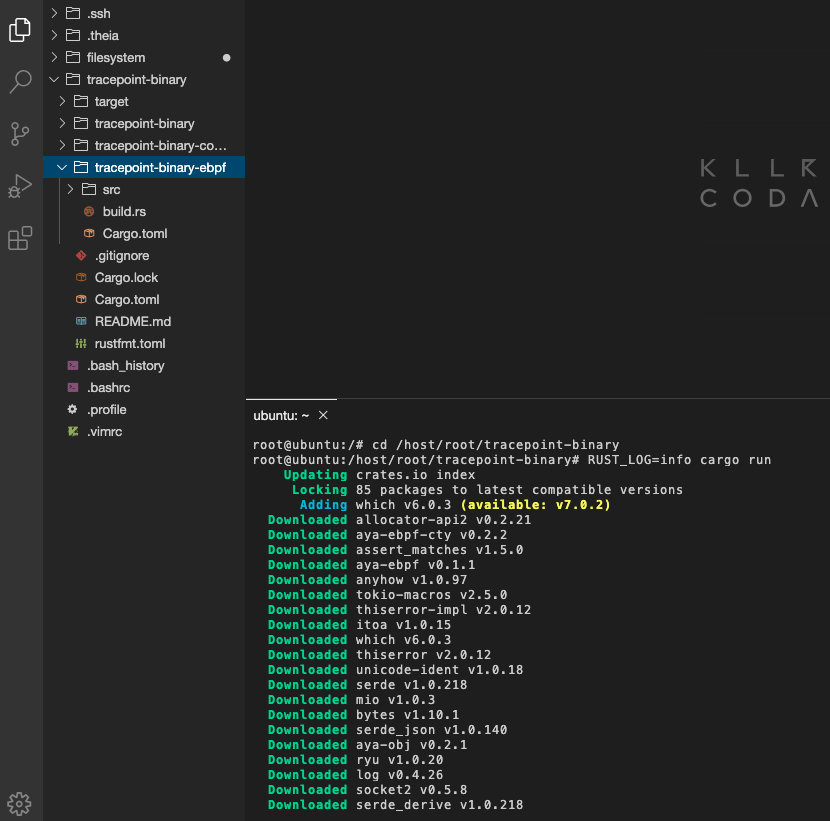
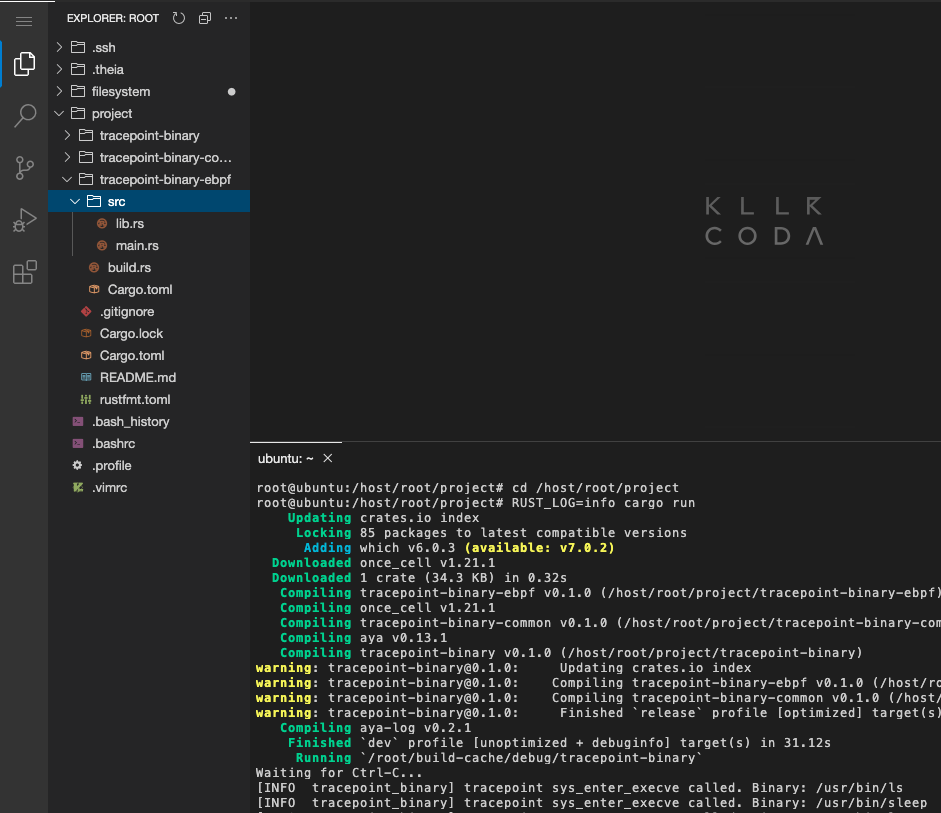
Update aya-prod

diff --git a/aya-prod/aya-first-maps/intro/step1/text.md b/aya-prod/aya-first-maps/intro/step1/text.md
@@ -4,7 +4,7 @@ Before using eBPF maps with Aya, you need to install dependancies. I created an 
 
 ![map architecture](../../img/map-architecture.png)
 
-In this lab, you only can use **Editor** tab. The project directory is `tracepoint-binary`.
+In this lab, you only can use **Editor** tab. The project directory is `project`.
 
 Launch this command in the Terminal at the bottom:
 
@@ -12,11 +12,10 @@ Launch this command in the Terminal at the bottom:
 docker run --rm -it --name aya \
                     --privileged \
                     --network host \
-                    -e USER=littlejo \
-                    -e RUST_LOG=info \
+                    -w /host/root/project \
                     -v /:/host \
                     -v /sys/kernel/debug:/sys/kernel/debug \
-                    littlejo/aya:slim bash
+                    littlejo/aya:1.0.0 bash
 ```{{exec}}
 
 * It can take a long time. During this time, you can install Rust extensions (in the OPEN VSX Registry) for the Editor:

diff --git a/aya-prod/aya-first-maps/second-map/step4/text.md b/aya-prod/aya-first-maps/second-map/step4/text.md
@@ -16,18 +16,24 @@ before this line: `from_utf8_unchecked(filename_bytes)`
 
 * Now it should be compiled:
 ```bash
-cd /host/root/tracepoint-binary
+cd /host/root/project
 RUST_LOG=info cargo run
 ```{{exec interrupt}}
 
-* It can work but not totally:
+* It can work:
 ```
 [INFO  tracepoint_binary] No log for this Binary
 [INFO  tracepoint_binary] No log for this Binary
-[INFO  tracepoint_binary] tracepoint sys_enter_execve called. Binary: /usr/bin/git
 [INFO  tracepoint_binary] No log for this Binary
-[INFO  tracepoint_binary] tracepoint sys_enter_execve called. Binary: /usr/bin/git
 [INFO  tracepoint_binary] No log for this Binary
-[INFO  tracepoint_binary] tracepoint sys_enter_execve called. Binary: /usr/bin/git
+```
+
+* Try to open another terminal
+
+
+Now you should see:
+```
+[INFO  tracepoint_binary] tracepoint sys_enter_execve called. Binary: /usr/bin/sleep
+[INFO  tracepoint_binary] tracepoint sys_enter_execve called. Binary: /usr/bin/ls
 ```
 * Did you find the bug?

diff --git a/aya-prod/aya-first-maps/first-map/step1/text.md b/aya-prod/aya-first-maps/first-map/step1/text.md
@@ -3,7 +3,7 @@ Now you have to improve the code to fix the issue of truncated filenames. Indeed
 For that, you need to modify **kernel space** of eBPF program.
 
 To edit the code, you need a text editor. You can use the **Editor** tab:
-* Select the `tracepoint-binary` directory
+* Select the `project` directory
 * Navigate to `tracepoint-binary-ebpf/src/main.rs`
 
 ![Screenshot of explorer](../../img/screenshot-explorer.png)
@@ -19,7 +19,7 @@ Test with the value of **512**.
 In the container, stop the Aya program (with CTRL-C) and run these commands:
 
 ```plain
-cd /host/root/tracepoint-binary
+cd /host/root/project
 RUST_LOG=info cargo run
 ```{{exec interrupt}}
 

diff --git a/aya-prod/aya-first-maps/fix-bug/step2/text.md b/aya-prod/aya-first-maps/fix-bug/step2/text.md
@@ -3,14 +3,16 @@ You have to modified kernel space program: `aya-test-ebpf/src/main.rs`.
 You need to reset the buf map. after `let filename = unsafe {` line, add this line:
 
 ```rust
-*buf = [0u8; 512];
+*buf = [0u8; LEN_MAX_PATH];
 ```{{copy}}
 
 * It should work now:
 ```bash
-cd /host/root/tracepoint-binary
+cd /host/root/project
 RUST_LOG=info cargo run
 ```{{exec interrupt}}
+
+* Open another terminal to test it
 
 Now you can replace info log into debug:
 ```rust
@@ -25,6 +27,6 @@ use aya_log_ebpf::debug;
 
 * If you want to test with debug:
 ```bash
-cd /host/root/tracepoint-binary
+cd /host/root/project
 RUST_LOG=debug cargo run
 ```{{exec interrupt}}

diff --git a/aya-prod/aya-first-maps/second-map/step2/text.md b/aya-prod/aya-first-maps/second-map/step2/text.md
@@ -18,7 +18,7 @@ Using an array to check if a binary is in the list is inefficient because it req
 You have to add this line after the other map in the `tracepoint-binary-ebpf/src/main.rs` file:
 ```rust
 #[map]
-static EXCLUDED_CMDS: HashMap<[u8; 512], u8> = HashMap::with_max_entries(10, 0);
+static EXCLUDED_CMDS: HashMap<[u8; LEN_MAX_PATH], u8> = HashMap::with_max_entries(10, 0);
 ```{{copy}}
 
 You need to add library:
@@ -28,7 +28,7 @@ use aya_ebpf::maps::HashMap;
 
 * Now it should be compiled:
 ```bash
-cd /host/root/tracepoint-binary
+cd /host/root/project
 RUST_LOG=info cargo run
 ```{{exec interrupt}}
 

diff --git a/aya-prod/aya-first-maps/intro.md b/aya-prod/aya-first-maps/intro.md
@@ -1,5 +1,5 @@
 This tutorial explains how to create and use eBPF maps with Aya.
 
-If you need more information, you can read the article: [Enhancing your Aya program with eBPF maps ](https://dev.to/littlejo/enhancing-your-aya-program-with-ebpf-maps-4hdj)
+If you need more information, you can read the article: [Enhancing your Aya program with eBPF maps ](https://dev.to/littlejo/enhancing-your-aya-program-with-ebpf-maps-4hdj).
 
 If you have some trouble, you can contact me on [LinkedIn](https://www.linkedin.com/in/joseph-ligier-4b86632).

diff --git a/aya-prod/aya-first-maps/first-map/step3/text.md b/aya-prod/aya-first-maps/first-map/step3/text.md
@@ -9,7 +9,7 @@ pub fn get_ptr_mut(&self, index: u32) -> Option<*mut T>
 
 You need to replace this code:
 ```rust
-let mut buf = [0u8; LEN_MAX_PATH];
+let mut buf = [0u8; 16];
 ```
 
 So you need mutable access. So `get_ptr_mut()` method is good for that.
@@ -36,7 +36,7 @@ let filename_bytes = bpf_probe_read_user_str_bytes(filename_src_addr, &mut *buf)
 
 * Now it should be compiled and work:
 ```bash
-cd /host/root/tracepoint-binary
+cd /host/root/project
 RUST_LOG=info cargo run
 ```{{exec interrupt}}
 

diff --git a/aya-prod/aya-first-maps/second-map/step3/text.md b/aya-prod/aya-first-maps/second-map/step3/text.md
@@ -12,7 +12,7 @@ program.attach("syscalls", "sys_enter_execve")?;
 
 * Add the list of binaries:
 ```rust
-let exclude_list = ["/usr/bin/git", "/opt/theia/node"];
+let exclude_list = ["/usr/bin/ls", "/usr/bin/sleep"];
 ```{{copy}}
 
 ![work flow of map: retrieve map](../../img/map-workflow-2.png)
@@ -57,7 +57,7 @@ So the main change:
 
 * Now it should be compiled:
 ```bash
-cd /host/root/tracepoint-binary
+cd /host/root/project
 RUST_LOG=info cargo run
 ```{{exec interrupt}}
 

diff --git a/aya-prod/aya-first-maps/first-map/step2/text.md b/aya-prod/aya-first-maps/first-map/step2/text.md
@@ -37,3 +37,15 @@ use aya_ebpf::macros::map;
 * The map is now created. Now we have to use it.
 
 This code does not compile yet because you need to replace the buffer: `let mut buf = [0u8; LEN_MAX_PATH];`
+
+So if you want to test the code, you can temporarily replace this line by:
+```rust
+let mut buf = [0u8; 16];
+```{{copy}}
+
+Now it will compile:
+
+```plain
+cd /host/root/project
+RUST_LOG=info cargo run
+```{{exec interrupt}}

diff --git a/aya-prod/aya-first-maps/intro/step2/text.md b/aya-prod/aya-first-maps/intro/step2/text.md
@@ -1,7 +1,7 @@
 Test the eBPF program before making any modifications... In the container, run these commands:
 
 ```plain
-cd /host/root/tracepoint-binary
+cd /host/root/project
 RUST_LOG=info cargo run
 ```{{exec}}
 

diff --git a/aya-prod/aya-first-maps/second-map/step1/text.md b/aya-prod/aya-first-maps/second-map/step1/text.md
@@ -1,6 +1,6 @@
 You need to add a new feature: create a filter to exclude logs from certain binaries:
-* `/usr/bin/git`
-* `/opt/theia/node`
+* `/usr/bin/ls`
+* `/usr/bin/sleep`
 
 How to do this ?
 
